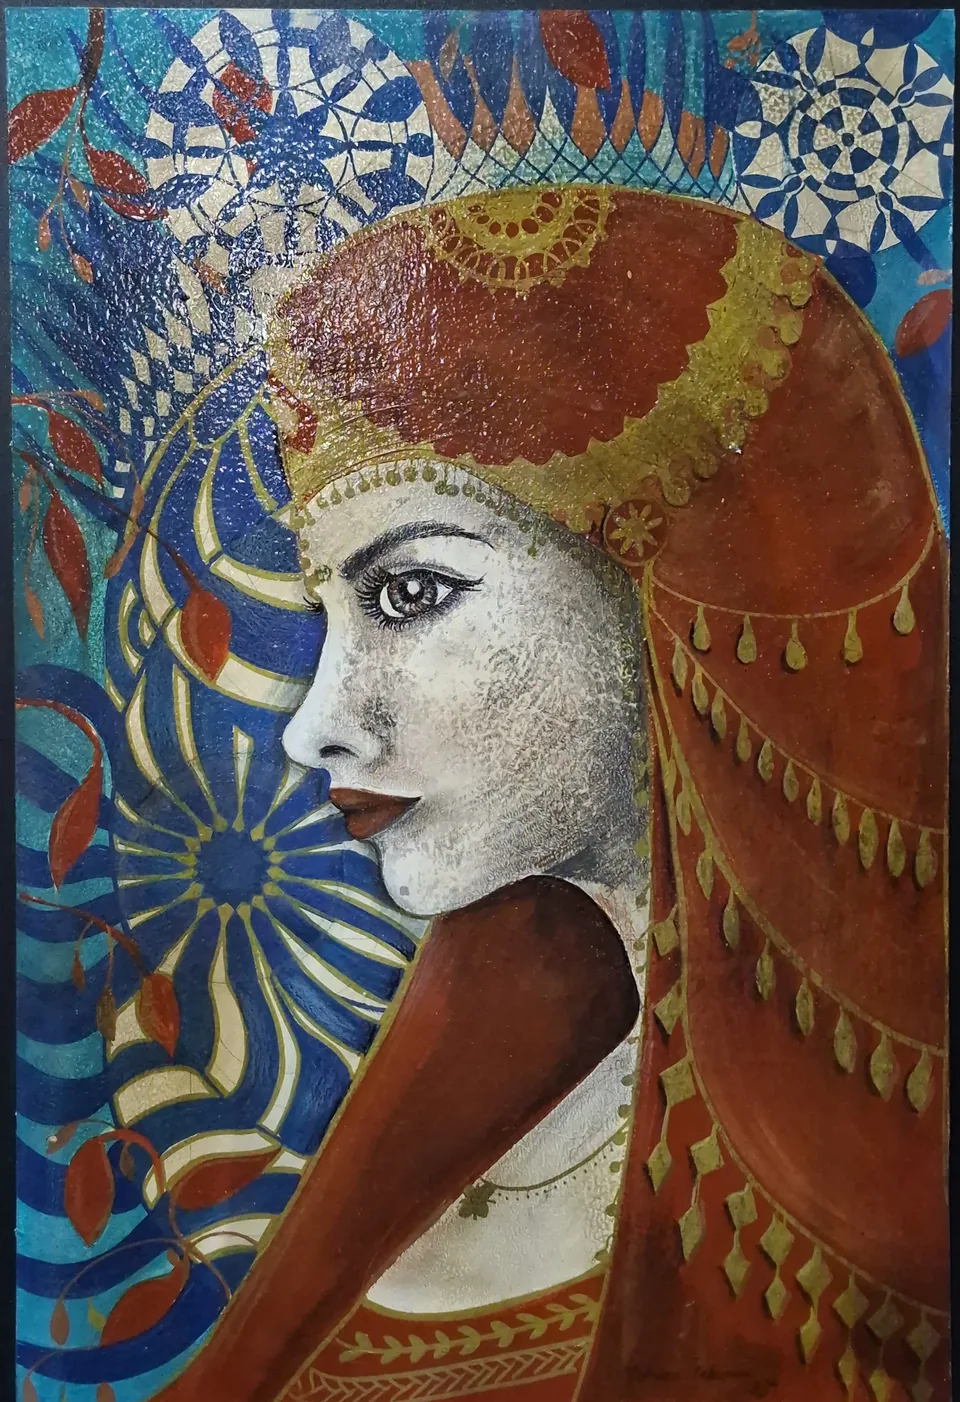
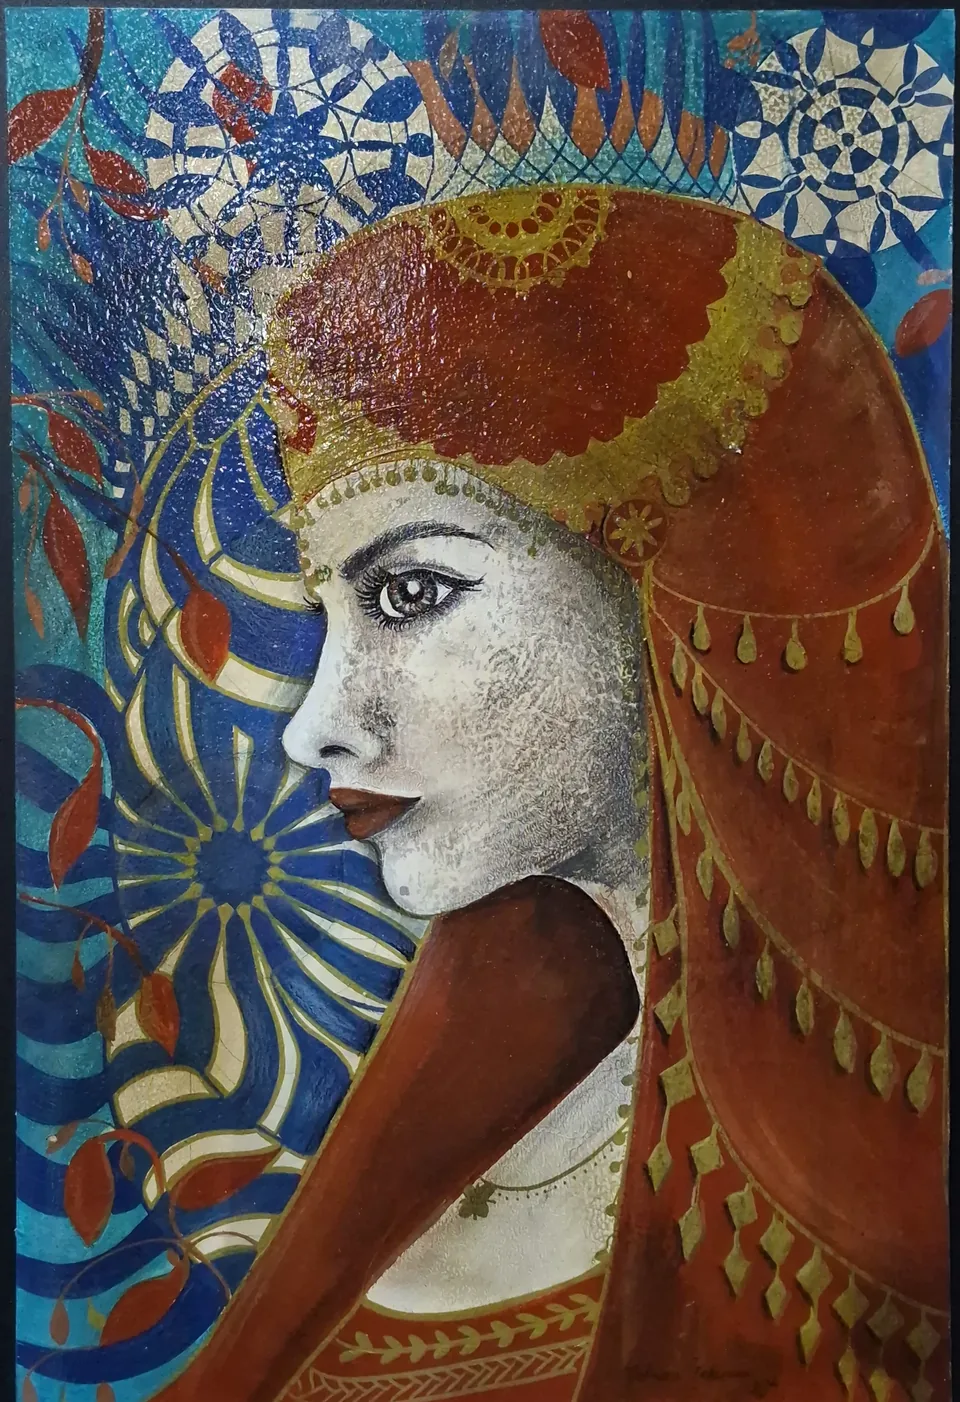
photography: attenuate localized glare on works 1 and 3 (#29)
* feat: source-preserving localized glare correction for artwork 1 and 3

* ci: produce verified glare correction assets in an isolated one-shot

* assets: preserve originals and publish conservative glare correction

* chore: retire completed one-time glare adjustment workflow

---------

Changed region(s): [[0.1875, 0.1227, 0.625, 0.3374]]

diff --git a/index.html b/index.html
@@ -74,7 +74,7 @@
         <p class="section-aside">Una investigación plástica donde los rostros femeninos se entrelazan con geometría sagrada, símbolos ancestrales y el imaginario onírico.</p>
       </div>
       <div class="gallery-grid" id="gallery"><article class="artwork artwork-feature" id="obra-guardiana">
-  <a class="artwork-link" href="assets/obras/guardiana-original-web.webp" data-artwork data-title="Guardiana" data-details="Técnica mixta sobre MDF · 76 × 100 cm · 2026" data-number="01 / 14" aria-label="Ampliar Guardiana, Técnica mixta sobre MDF · 76 × 100 cm · 2026">
+  <a class="artwork-link" href="assets/obras/guardiana-retouched-original-web.webp" data-artwork data-title="Guardiana" data-details="Técnica mixta sobre MDF · 76 × 100 cm · 2026" data-number="01 / 14" aria-label="Ampliar Guardiana, Técnica mixta sobre MDF · 76 × 100 cm · 2026">
     <div class="artwork-image"><img src="assets/obras/gallery/guardiana-480.webp" srcset="assets/obras/gallery/guardiana-480.webp 480w, assets/obras/gallery/guardiana-960.webp 960w" sizes="(max-width: 620px) calc(100vw - 38px), (max-width: 850px) calc(100vw - 48px), (max-width: 1160px) 61vw, 60vw" alt="Guardiana, obra de Nohemi Palencia Cisneros" loading="lazy" decoding="async"><span class="artwork-zoom" aria-hidden="true">↗</span></div>
   </a>
   <div class="artwork-info"><div><span class="artwork-number">01 / 14</span><h3>Guardiana</h3><p>Técnica mixta sobre MDF · 76 × 100 cm</p><a class="artwork-detail-link" href="obras/guardiana/">Ficha de la obra <span aria-hidden="true">↗</span></a></div><span class="artwork-year">2026</span></div>
@@ -86,7 +86,7 @@
   <div class="artwork-info"><div><span class="artwork-number">02 / 14</span><h3>Princesa onírica</h3><p>Técnica mixta sobre MDF · 81 × 64 cm</p><a class="artwork-detail-link" href="obras/princesa-onirica/">Ficha de la obra <span aria-hidden="true">↗</span></a></div><span class="artwork-year">2026</span></div>
 </article>
 <article class="artwork " id="obra-vision-frontal-sueno-con-el-iznik">
-  <a class="artwork-link" href="assets/obras/vision-frontal-sueno-con-el-iznik-original-web.webp" data-artwork data-title="Visión frontal / Sueño con el Iznik" data-details="Técnica mixta sobre MDF · 81 × 64 cm · 2026" data-number="03 / 14" aria-label="Ampliar Visión frontal / Sueño con el Iznik, Técnica mixta sobre MDF · 81 × 64 cm · 2026">
+  <a class="artwork-link" href="assets/obras/vision-frontal-sueno-con-el-iznik-retouched-original-web.webp" data-artwork data-title="Visión frontal / Sueño con el Iznik" data-details="Técnica mixta sobre MDF · 81 × 64 cm · 2026" data-number="03 / 14" aria-label="Ampliar Visión frontal / Sueño con el Iznik, Técnica mixta sobre MDF · 81 × 64 cm · 2026">
     <div class="artwork-image"><img src="assets/obras/gallery/vision-frontal-sueno-con-el-iznik-480.webp" srcset="assets/obras/gallery/vision-frontal-sueno-con-el-iznik-480.webp 480w, assets/obras/gallery/vision-frontal-sueno-con-el-iznik-960.webp 960w" sizes="(max-width: 620px) calc(100vw - 38px), (max-width: 850px) 46vw, (max-width: 1160px) 31vw, 30vw" alt="Visión frontal / Sueño con el Iznik, obra de Nohemi Palencia Cisneros" loading="lazy" decoding="async"><span class="artwork-zoom" aria-hidden="true">↗</span></div>
   </a>
   <div class="artwork-info"><div><span class="artwork-number">03 / 14</span><h3>Visión frontal / Sueño con el Iznik</h3><p>Técnica mixta sobre MDF · 81 × 64 cm</p><a class="artwork-detail-link" href="obras/vision-frontal-sueno-con-el-iznik/">Ficha de la obra <span aria-hidden="true">↗</span></a></div><span class="artwork-year">2026</span></div>

diff --git a/obras/vision-frontal-sueno-con-el-iznik/index.html b/obras/vision-frontal-sueno-con-el-iznik/index.html
@@ -16,10 +16,10 @@
   <link rel="preconnect" href="https://fonts.gstatic.com" crossorigin>
   <link href="https://fonts.googleapis.com/css2?family=DM+Sans:wght@400;500;600;700&family=Italiana&display=swap" rel="stylesheet">
   <link rel="stylesheet" href="../../assets/styles.css?v=2b90ed389b7d">
-  <script type="application/ld+json">{"@context":"https://schema.org","@type":"VisualArtwork","name":"Visión frontal / Sueño con el Iznik","creator":{"@type":"Person","name":"Nohemi Palencia Cisneros"},"dateCreated":"2026","artMedium":"Técnica mixta sobre MDF","size":"81 × 64 cm","image":"https://tooltician.com/nohemi-palencia/assets/obras/vision-frontal-sueno-con-el-iznik-original-web.webp","copyrightHolder":{"@type":"Person","name":"Nohemi Palencia Cisneros"}}</script>
+  <script type="application/ld+json">{"@context":"https://schema.org","@type":"VisualArtwork","name":"Visión frontal / Sueño con el Iznik","creator":{"@type":"Person","name":"Nohemi Palencia Cisneros"},"dateCreated":"2026","artMedium":"Técnica mixta sobre MDF","size":"81 × 64 cm","image":"https://tooltician.com/nohemi-palencia/assets/obras/vision-frontal-sueno-con-el-iznik-retouched-original-web.webp","copyrightHolder":{"@type":"Person","name":"Nohemi Palencia Cisneros"}}</script>
   <link rel="canonical" href="https://tooltician.com/nohemi-palencia/obras/vision-frontal-sueno-con-el-iznik/">
   <meta property="og:url" content="https://tooltician.com/nohemi-palencia/obras/vision-frontal-sueno-con-el-iznik/">
-  <meta property="og:image" content="https://tooltician.com/nohemi-palencia/assets/obras/vision-frontal-sueno-con-el-iznik-original-web.webp">
+  <meta property="og:image" content="https://tooltician.com/nohemi-palencia/assets/obras/vision-frontal-sueno-con-el-iznik-retouched-original-web.webp">
   <meta property="og:image:alt" content="Visión frontal / Sueño con el Iznik, obra de Nohemi Palencia Cisneros">
   <meta name="twitter:card" content="summary">
 </head>
@@ -41,8 +41,8 @@
     <article class="shell artwork-detail">
       <div class="artwork-detail-view">
         <figure class="artwork-detail-figure">
-          <a href="../../assets/obras/vision-frontal-sueno-con-el-iznik-original-web.webp" target="_blank" rel="noopener" aria-label="Ver la reproducción de Visión frontal / Sueño con el Iznik en una pestaña nueva">
-            <img src="../../assets/obras/vision-frontal-sueno-con-el-iznik-original-web.webp" alt="Visión frontal / Sueño con el Iznik, obra de Nohemi Palencia Cisneros" decoding="async" fetchpriority="high">
+          <a href="../../assets/obras/vision-frontal-sueno-con-el-iznik-retouched-original-web.webp" target="_blank" rel="noopener" aria-label="Ver la reproducción de Visión frontal / Sueño con el Iznik en una pestaña nueva">
+            <img src="../../assets/obras/vision-frontal-sueno-con-el-iznik-retouched-original-web.webp" alt="Visión frontal / Sueño con el Iznik, obra de Nohemi Palencia Cisneros" decoding="async" fetchpriority="high">
           </a>
           <figcaption>Reproducción de referencia · © Nohemi Palencia Cisneros</figcaption>
         </figure>

diff --git a/obras/guardiana/index.html b/obras/guardiana/index.html
@@ -16,10 +16,10 @@
   <link rel="preconnect" href="https://fonts.gstatic.com" crossorigin>
   <link href="https://fonts.googleapis.com/css2?family=DM+Sans:wght@400;500;600;700&family=Italiana&display=swap" rel="stylesheet">
   <link rel="stylesheet" href="../../assets/styles.css?v=2b90ed389b7d">
-  <script type="application/ld+json">{"@context":"https://schema.org","@type":"VisualArtwork","name":"Guardiana","creator":{"@type":"Person","name":"Nohemi Palencia Cisneros"},"dateCreated":"2026","artMedium":"Técnica mixta sobre MDF","size":"76 × 100 cm","image":"https://tooltician.com/nohemi-palencia/assets/obras/guardiana-original-web.webp","copyrightHolder":{"@type":"Person","name":"Nohemi Palencia Cisneros"}}</script>
+  <script type="application/ld+json">{"@context":"https://schema.org","@type":"VisualArtwork","name":"Guardiana","creator":{"@type":"Person","name":"Nohemi Palencia Cisneros"},"dateCreated":"2026","artMedium":"Técnica mixta sobre MDF","size":"76 × 100 cm","image":"https://tooltician.com/nohemi-palencia/assets/obras/guardiana-retouched-original-web.webp","copyrightHolder":{"@type":"Person","name":"Nohemi Palencia Cisneros"}}</script>
   <link rel="canonical" href="https://tooltician.com/nohemi-palencia/obras/guardiana/">
   <meta property="og:url" content="https://tooltician.com/nohemi-palencia/obras/guardiana/">
-  <meta property="og:image" content="https://tooltician.com/nohemi-palencia/assets/obras/guardiana-original-web.webp">
+  <meta property="og:image" content="https://tooltician.com/nohemi-palencia/assets/obras/guardiana-retouched-original-web.webp">
   <meta property="og:image:alt" content="Guardiana, obra de Nohemi Palencia Cisneros">
   <meta name="twitter:card" content="summary">
 </head>
@@ -41,8 +41,8 @@
     <article class="shell artwork-detail">
       <div class="artwork-detail-view">
         <figure class="artwork-detail-figure">
-          <a href="../../assets/obras/guardiana-original-web.webp" target="_blank" rel="noopener" aria-label="Ver la reproducción de Guardiana en una pestaña nueva">
-            <img src="../../assets/obras/guardiana-original-web.webp" alt="Guardiana, obra de Nohemi Palencia Cisneros" decoding="async" fetchpriority="high">
+          <a href="../../assets/obras/guardiana-retouched-original-web.webp" target="_blank" rel="noopener" aria-label="Ver la reproducción de Guardiana en una pestaña nueva">
+            <img src="../../assets/obras/guardiana-retouched-original-web.webp" alt="Guardiana, obra de Nohemi Palencia Cisneros" decoding="async" fetchpriority="high">
           </a>
           <figcaption>Reproducción de referencia · © Nohemi Palencia Cisneros</figcaption>
         </figure>

diff --git a/scripts/retouch_artworks.py b/scripts/retouch_artworks.py
@@ -1,0 +1,63 @@
+#!/usr/bin/env python3
+"""Conservative, reversible photo-glare attenuation. No inpainting or painting reconstruction."""
+import argparse
+import hashlib
+import io
+from pathlib import Path
+import numpy as np
+from PIL import Image
+
+ROOT=Path(__file__).resolve().parents[1]
+ART=ROOT/'assets/obras'
+# Reference: EXIF-corrected crop dimensions and manually reviewed elliptical masks.
+# Each ellipse is cx,cy,rx,ry,strength; scaled to current authorized WebP pixels.
+REGIONS={
+ 'guardiana':((2730,1945),[(1400,515,860,650,.14),(2020,560,710,670,.12),(990,1160,750,560,.08)]),
+ 'vision-frontal-sueno-con-el-iznik':((2105,3075),[(820,680,780,610,.25),(1300,770,670,700,.18),(460,520,570,800,.10)])
+}
+def corrected(slug):
+    path=ART/(slug+'-original-web.webp')
+    with Image.open(path) as im:
+        assert im.format=='WEBP',slug
+        src=im.convert('RGB')
+        icc=im.info.get('icc_profile')
+    w,h=src.size
+    if min(w,h)<1200: raise ValueError('Source too small: '+slug)
+    rw,rh=REGIONS[slug][0]
+    sx,sy=w/rw,h/rh
+    y,x=np.ogrid[:h,:w]
+    field=np.zeros((h,w),np.float32)
+    for cx,cy,rx,ry,weight in REGIONS[slug][1]:
+        field+=weight*np.exp(-2*((x-cx*sx)**2/(rx*sx)**2+(y-cy*sy)**2/(ry*sy)**2))
+    field=np.clip(field,0,.28)
+    rgb=np.asarray(src,dtype=np.uint8)
+    hi=np.max(rgb,axis=2).astype(np.float32)
+    lo=np.min(rgb,axis=2).astype(np.float32)
+    sat=np.divide(hi-lo,np.maximum(hi,1))
+    alpha=field*(np.clip((hi/255-.25)/.65,0,1)**.8)*(.5+.5*(1-sat))
+    edit=np.clip((rgb.astype(np.float32)-alpha[:,:,None]*255)/(1-alpha[:,:,None]),0,255).astype(np.uint8)
+    delta=np.abs(edit.astype(np.float32)-rgb.astype(np.float32))
+    if not .2<delta.mean()<8 or delta.max()>65:
+        raise ValueError(f'Unsafe change for {slug}: avg={delta.mean()} max={delta.max()}')
+    output=io.BytesIO()
+    kw={'format':'WEBP','quality':90,'method':6}
+    if icc: kw['icc_profile']=icc
+    Image.fromarray(edit,'RGB').save(output,**kw)
+    return output.getvalue(),src.size,float(delta.mean()),float(delta.max())
+def main():
+    p=argparse.ArgumentParser()
+    p.add_argument('--check',action='store_true')
+    args=p.parse_args()
+    assert len(REGIONS)==2
+    for slug in REGIONS:
+        data,size,avg,maximum=corrected(slug)
+        dest=ART/(slug+'-retouched-original-web.webp')
+        if args.check:
+            assert dest.exists(), f'Missing edited asset: {dest}'
+            assert hashlib.sha256(dest.read_bytes()).digest()==hashlib.sha256(data).digest(),slug
+        else:
+            dest.write_bytes(data)
+        with Image.open(io.BytesIO(data)) as check:
+            assert check.size==size and check.format=='WEBP'
+        print(f'{slug} {size} bytes={len(data)} mean_pixel_delta={avg:.2f} max_pixel_delta={maximum:.0f} checked={args.check}',flush=True)
+if __name__=='__main__':main()

diff --git a/tests/test_site.py b/tests/test_site.py
@@ -386,7 +386,9 @@ class PortfolioTests(unittest.TestCase):
         indexed={w['slug']:w for w in self.data}
         for slug,source in expected.items():
             work=indexed[slug]
-            self.assertEqual(work['archivo'],slug+'-original-web.webp')
+            self.assertEqual(work['archivo'],slug+(
+                '-retouched-original-web.webp' if slug in ('guardiana','vision-frontal-sueno-con-el-iznik')
+                else '-original-web.webp'))
             self.assertIn(source,work['fuente_fotografia'])
             path=ROOT/'assets/obras'/work['archivo']
             self.assertGreater(path.stat().st_size,300_000,slug)
@@ -397,6 +399,19 @@ class PortfolioTests(unittest.TestCase):
         self.assertIn('.artwork-image,.artwork-feature .artwork-image{padding:0;background:transparent}',styles)
         self.assertIn('.artwork-detail-view{padding:0;background:transparent}',styles)
 
+
+    def test_retouched_paintings_are_reversible_and_only_two(self):
+        treated=('guardiana','vision-frontal-sueno-con-el-iznik')
+        self.assertEqual([w['slug'] for w in self.data if 'retoque_fotografico' in w],list(treated))
+        for slug in treated:
+            work=next(w for w in self.data if w['slug']==slug)
+            self.assertEqual(work['archivo_original_sin_retoque'],slug+'-original-web.webp')
+            self.assertIn('reversible',work['retoque_fotografico'])
+            self.assertTrue((ROOT/'assets/obras'/work['archivo_original_sin_retoque']).exists())
+            self.assertTrue((ROOT/'assets/obras'/work['archivo']).exists())
+            page=(ROOT/'obras'/slug/'index.html').read_text('utf-8')
+            self.assertIn('../../assets/obras/'+work['archivo'],page)
+        self.assertEqual(self.html.count('-retouched-original-web.webp'),2)
 
     def test_responsive_gallery_only_for_confirmed_originals(self):
         expected_full = {w['slug']:w for w in self.data}

diff --git a/README.md b/README.md
@@ -246,3 +246,11 @@ No publicar el teléfono personal repetido en el diseño de Canva sin necesidad 
 El responsable del sitio confirmó expresamente que **las 14 obras representadas son de 2026** y pidió sustituir los dos registros que todavía indicaban 2017. El catálogo canónico en `data/obras.json` se corrigió para **Hindú celular** y **Plumaje azul**; todas las demás obras ya tenían 2026. Se actualizan portada, fichas individuales, textos sociales y `dateCreated` de Schema.org mediante el generador estático, con una prueba de regresión explícita. Fotografías, color, encuadre, medidas, títulos y soportes permanecen inalterados.
 
 **Proveniencia y salvedad:** el PDF histórico consignaba 2017 en una ficha de `Hindú celular`; el correo del 20-10-2026 indicaba 2017 para `Plumaje azul`. El nuevo portafolio recibido también consignaba 2026 para Plumaje azul. La corrección de ambas fichas se basa en la **indicación expresa del responsable de la web**, no se debe reescribir el contenido de esos correos ni atribuirle a Nohemi una confirmación posterior que no consta. Cada registro corregido conserva `fuente_anio` y este historial explica por qué la información pública actual es 2026.
+
+### Edición fotográfica localizada — octubre de 2026
+
+- Obras 1/14 **Guardiana** y 3/14 **Visión frontal / Sueño con el Iznik**: corrección moderada de reflejos del barniz mediante máscaras elípticas de atenuación local. No hay retoques generativos, inpainting, ni generación de pinceladas o texturas.
+- El script reproducible `scripts/retouch_artworks.py` conserva intactas las imágenes `*-original-web.webp` y genera nuevas versiones `*-retouched-original-web.webp`. En ellas se aplica únicamente una reducción moderada del velo neutro de luz; validación de magnitud por píxel en el propio script.
+- Las miniaturas 480px/960px se regeneran desde las nuevas versiones para portada; el visor, páginas individuales y metadatos apuntan a ellas. Los otros 12 cuadros, incluidas las 2 reproducciones provisionales no verificadas, siguen intactos.
+- CI: `python3 scripts/retouch_artworks.py --check` (reproducibilidad exacta) + `python3 scripts/generate_gallery_variants.py --check` + `python3 scripts/build.py --check` + tests. Dependencias fijadas Pillow 12.3.0 y NumPy 2.2.6.
+- Limitación documental: la luz especular intensa puede ocultar textura original que **no puede recuperarse de la fotografía**. Para una reproducción museográfica se recomienda volver a fotografiar con iluminación difusa/polarización; el retoque no sustituye nuevas tomas.
